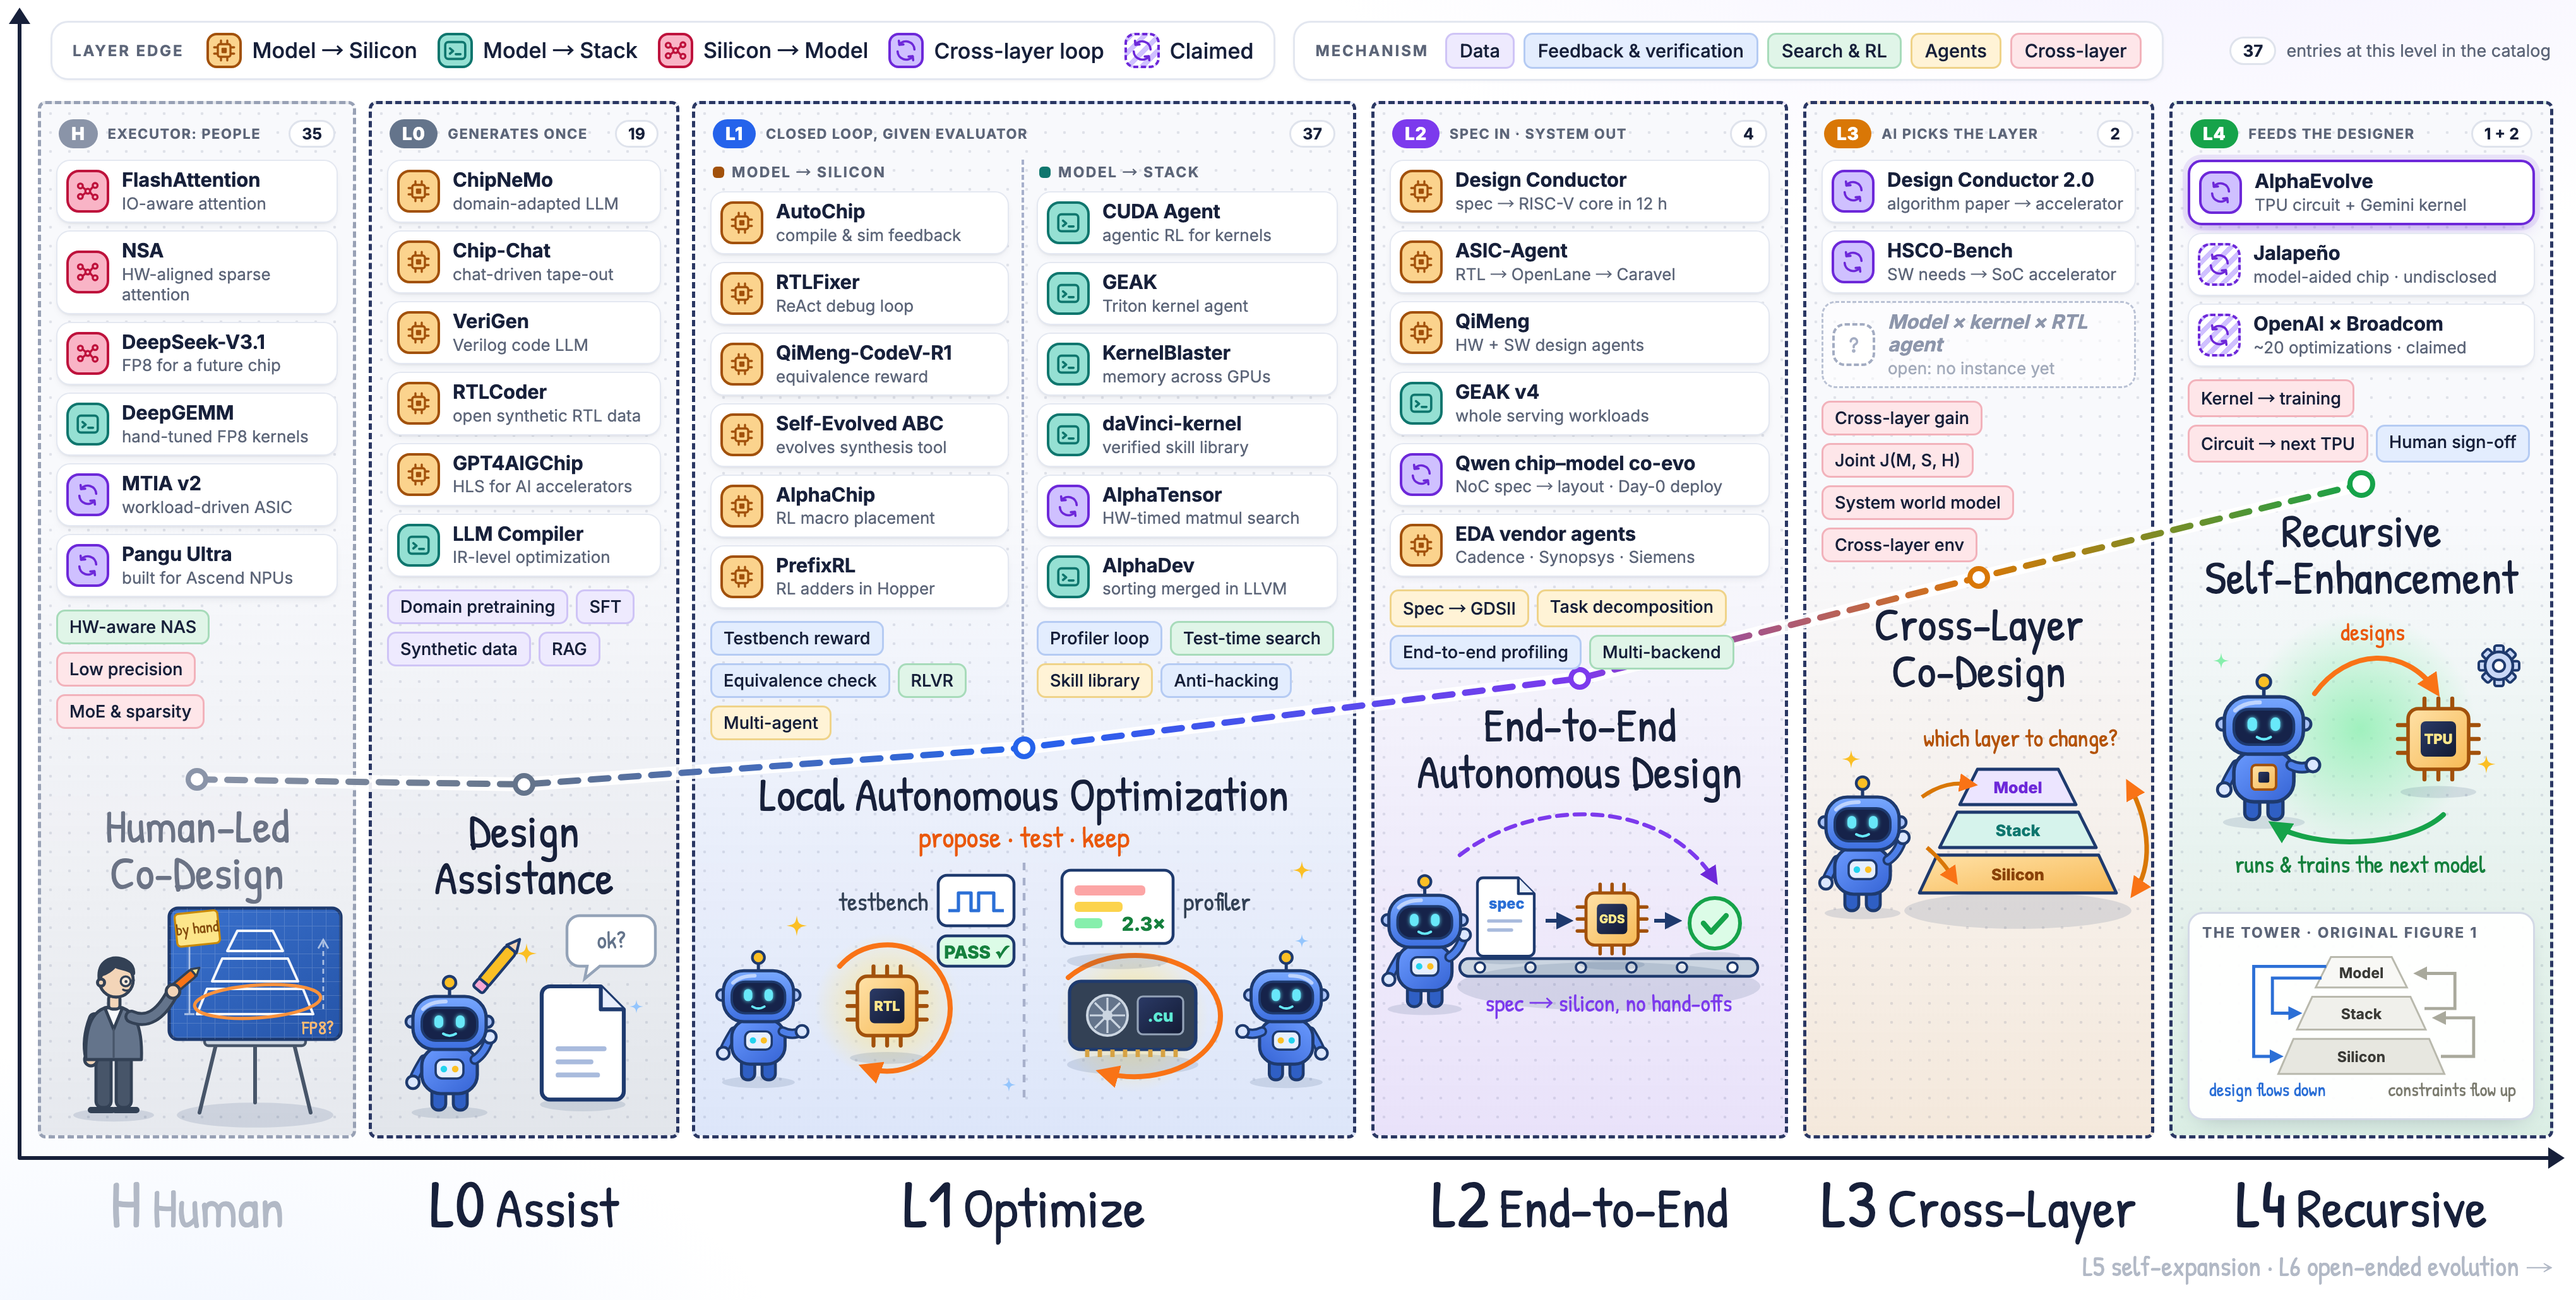
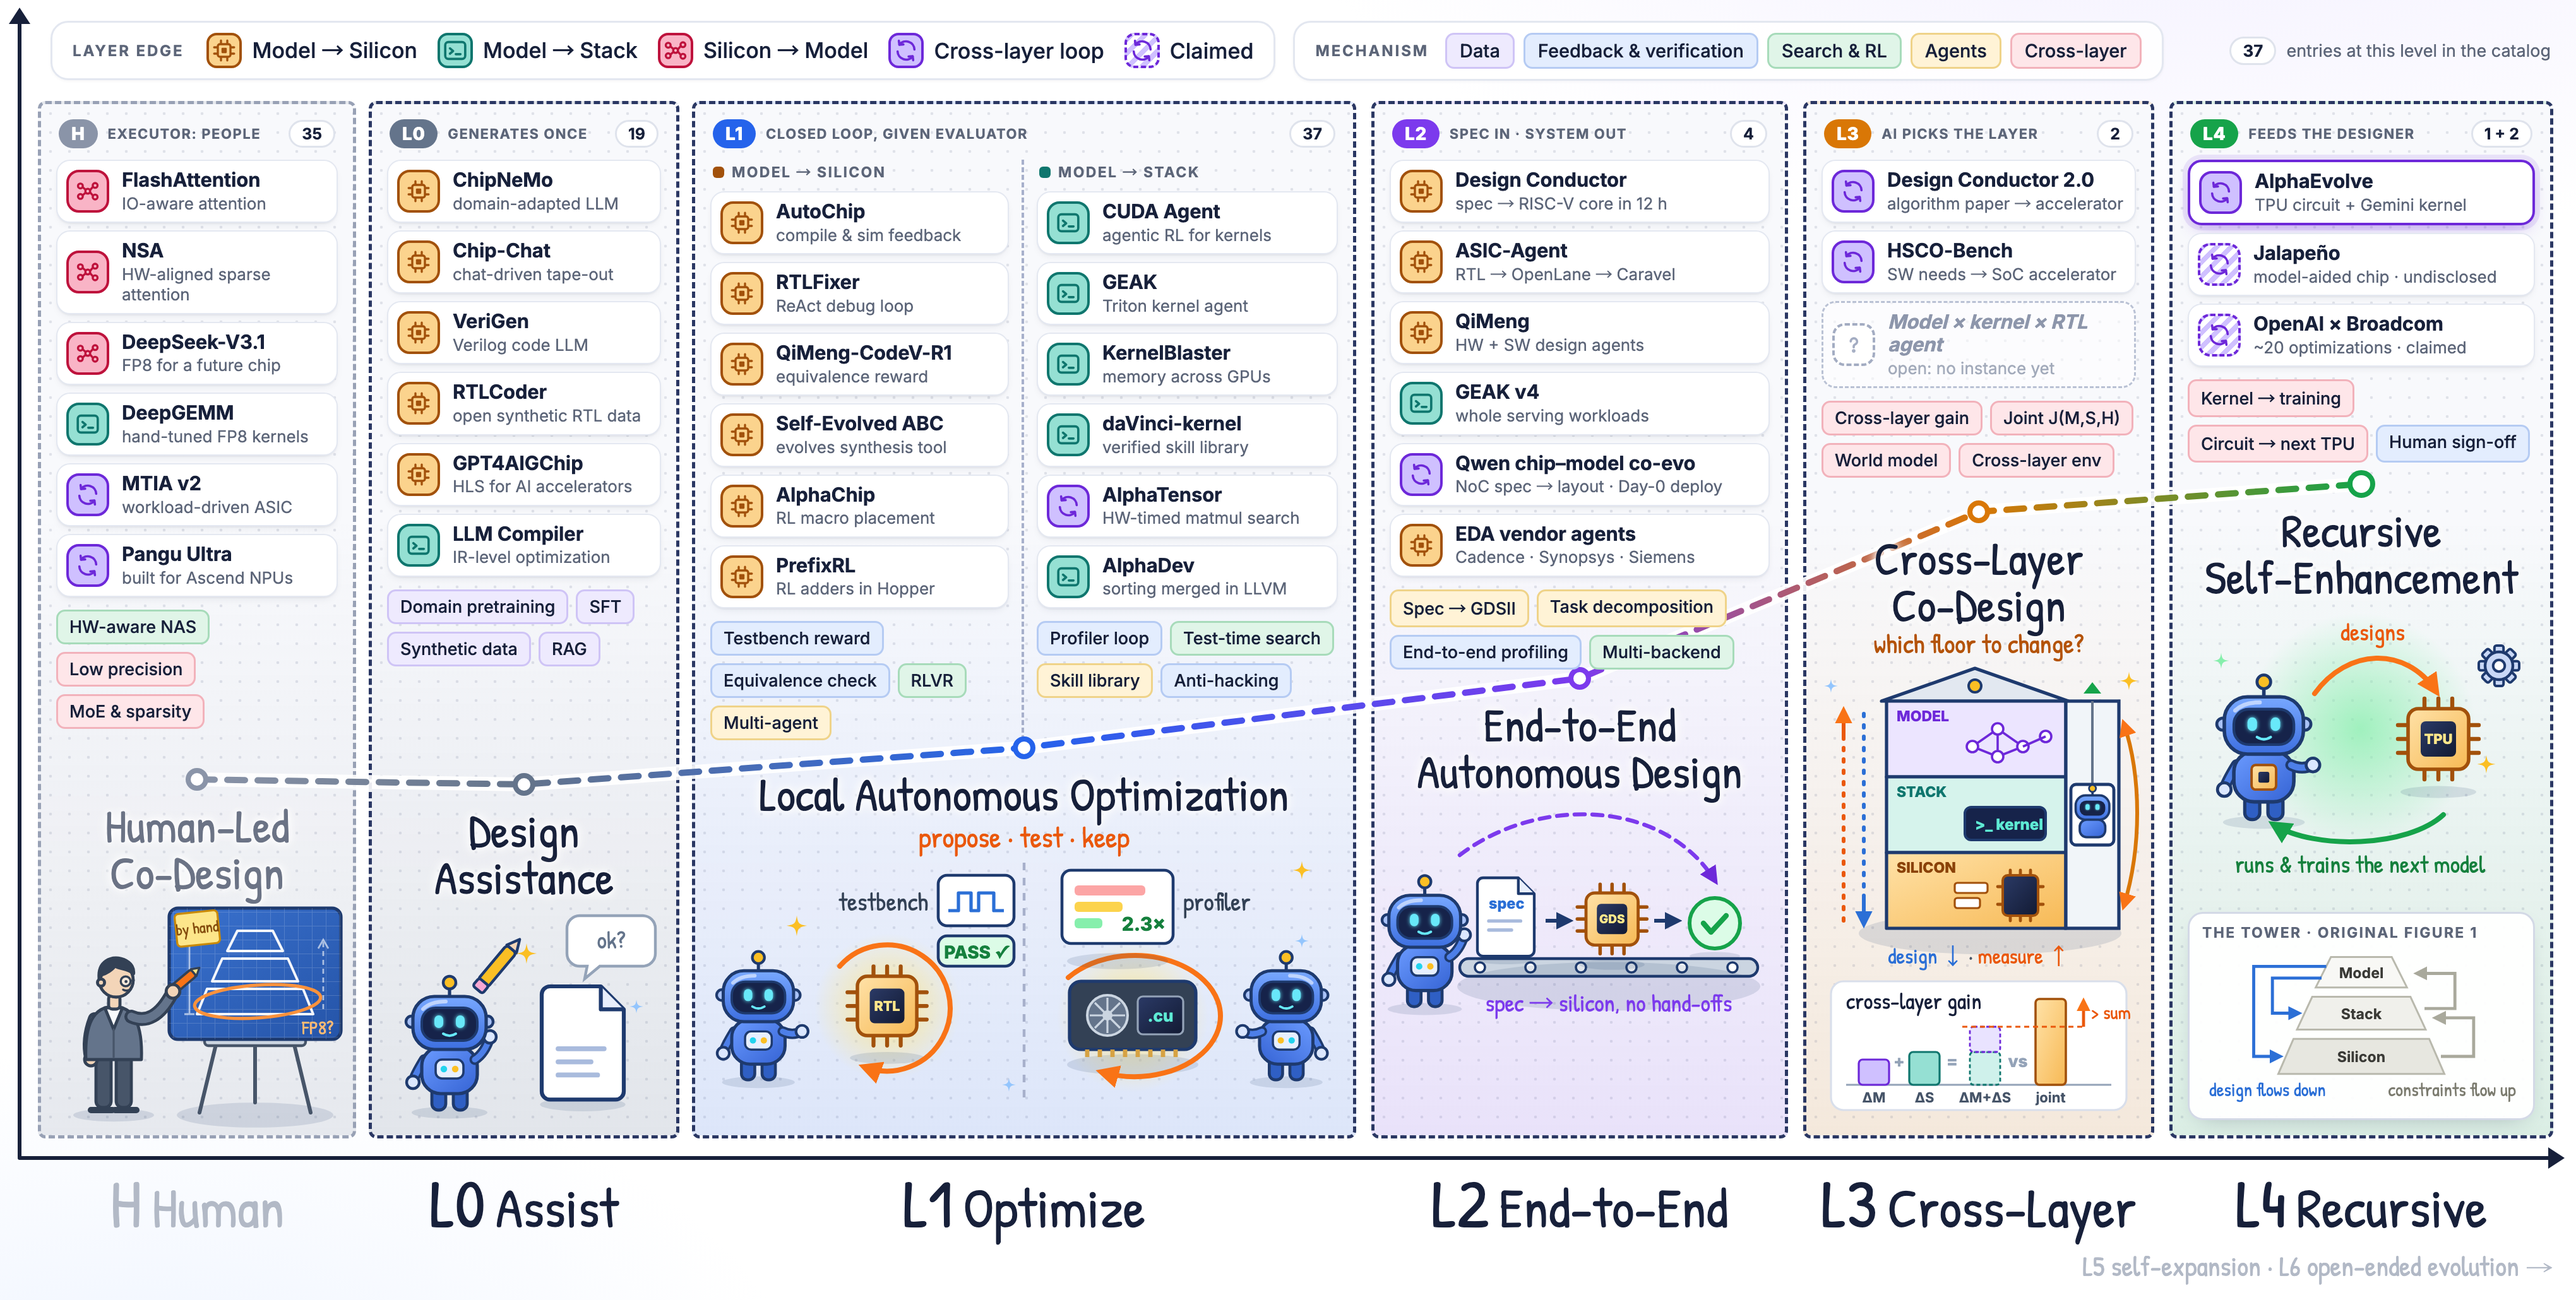
Reimagine the L3 scene in Figure 1 as a three-floor building
The robot rides an elevator between the Model, Stack and Silicon floors
with design and measurement pipes on the wall; a cross-layer-gain card
shows a joint change beating the sum of single-layer changes.

Changed region(s): [[0.6537, 0.3107, 0.9027, 0.8699]]

diff --git a/scripts/figures/overview.html b/scripts/figures/overview.html
@@ -95,7 +95,7 @@
   .k-loop { background: var(--c-loop); border-color: var(--c-loop-b); }
 
   .scene { position: absolute; left: 0; right: 0; text-align: center; z-index: 2; }
-  .scene .ttl { font-size: 37px; line-height: 1.0; color: var(--ink); }
+  .scene .ttl { font-size: 37px; line-height: 1.0; color: var(--ink); text-shadow: 0 0 4px #fff, 0 0 8px #fff, 0 0 12px rgba(255,255,255,.9); }
   .human .scene .ttl { color: #6b7385; }
   .scene svg { display: block; margin: 2px auto 0; overflow: visible; }
 
@@ -200,13 +200,13 @@ const COLS = [
     ],
     chips: [['k-agent', 'Spec → GDSII'], ['k-agent', 'Task decomposition'], ['k-fb', 'End-to-end profiling'], ['k-search', 'Multi-backend']] },
   { id: 'L3', x: 1428, w: 278, color: '#d97706', floor: 'rgba(217,119,6,.13)', pill: 'L3', sub: 'AI picks the layer', count: '2',
-    title: 'Cross-Layer<br>Co-Design', rise: 150, scene: 'cross',
+    title: 'Cross-Layer<br>Co-Design', rise: 6, scene: 'cross',
     items: [
       ['lp', 'Design Conductor 2.0', 'algorithm paper → accelerator'],
       ['lp', 'HSCO-Bench', 'SW needs → SoC accelerator'],
       ['open', 'Model × kernel × RTL agent', 'open: no instance yet'],
     ],
-    chips: [['k-loop', 'Cross-layer gain'], ['k-loop', 'Joint J(M, S, H)'], ['k-loop', 'System world model'], ['k-loop', 'Cross-layer env']] },
+    chips: [['k-loop', 'Cross-layer gain'], ['k-loop', 'Joint J(M,S,H)'], ['k-loop', 'World model'], ['k-loop', 'Cross-layer env']] },
   { id: 'L4', x: 1718, w: 304, color: '#16a34a', floor: 'rgba(22,163,74,.13)', pill: 'L4', sub: 'Feeds the designer', count: '1 + 2',
     title: 'Recursive<br>Self-Enhancement', rise: 196, scene: 'recursive', inset: true,
     items: [
@@ -424,15 +424,78 @@ const SCENES = {
     <path d="M60 46 C 120 0, 220 0, 262 66" fill="none" stroke="#7c3aed" stroke-width="3.2" stroke-dasharray="8 6" stroke-linecap="round" marker-end="url(#ah-v)"/>
     <text x="178" y="170" text-anchor="middle" font-family="Patrick Hand" font-size="19" fill="#7c3aed">spec → silicon, no hand-offs</text>
   </svg>`,
-  cross: () => `<svg width="262" height="190" viewBox="0 0 262 190">
-    ${shadow(162, 170, 90)}
-    ${tower(100, 58, 1.0)}
-    <path d="M250 70 C 268 104, 268 136, 254 156" fill="none" stroke="#d97706" stroke-width="3.6" marker-start="url(#ah-o)" marker-end="url(#ah-o)"/>
-    ${robot(4, 72, 1.0, { left: 'down', right: 'up' })}
-    <path d="M86 80 C 100 70, 112 68, 126 70" fill="none" stroke="#d97706" stroke-width="3.2" marker-end="url(#ah-o)"/>
-    <path d="M90 120 C 104 132, 108 140, 112 146" fill="none" stroke="#d97706" stroke-width="3.2" marker-end="url(#ah-o)"/>
-    <text x="164" y="40" text-anchor="middle" font-family="Patrick Hand" font-size="19" fill="#b45309">which layer to change?</text>
-    ${sparkle(30, 50, 0.8)}
+  cross: () => `<svg width="262" height="386" viewBox="0 0 262 386">
+    <text x="131" y="18" text-anchor="middle" font-family="Patrick Hand" font-size="21" fill="#b45309">which floor to change?</text>
+    ${shadow(140, 240, 104)}
+    <!-- roof -->
+    <path d="M54 56 L128 30 L202 56 Z" fill="#e2e8f0" stroke="${NAVY}" stroke-width="2.6" stroke-linejoin="round"/>
+    <circle cx="128" cy="44" r="5" fill="#fbbf24" stroke="${NAVY}" stroke-width="2"/>
+    <!-- floors -->
+    <g stroke="${NAVY}" stroke-width="2.6" stroke-linejoin="round">
+      <rect x="58" y="56" width="142" height="60" fill="#ece5ff"/>
+      <rect x="58" y="116" width="142" height="60" fill="#d6f3ec"/>
+      <rect x="58" y="176" width="142" height="60" fill="url(#gChip)"/>
+    </g>
+    <g font-family="Inter" font-weight="800" font-size="11.5">
+      <text x="66" y="72" fill="#6d28d9">MODEL</text><text x="66" y="132" fill="#0f766e">STACK</text><text x="66" y="192" fill="#8a4208">SILICON</text>
+    </g>
+    <!-- model floor: a small network -->
+    <g stroke="#6d28d9" stroke-width="1.8" fill="#fff">
+      <path d="M126 92 L146 78 L166 92 M126 92 L146 100 L166 92 M146 78 L146 100" fill="none"/>
+      <circle cx="126" cy="92" r="4.5"/><circle cx="146" cy="78" r="4.5"/><circle cx="146" cy="100" r="4.5"/><circle cx="166" cy="92" r="4.5"/>
+      <circle cx="184" cy="84" r="4.5"/><path d="M166 92 L184 84" fill="none"/>
+    </g>
+    <!-- stack floor: kernel window -->
+    <g transform="translate(120,140)">
+      <rect width="64" height="26" rx="5" fill="#16234a" stroke="${NAVY}" stroke-width="2"/>
+      <text x="8" y="18" font-family="Inter" font-weight="800" font-size="12" fill="#5eead4">&gt;_ kernel</text>
+    </g>
+    <!-- silicon floor: die -->
+    <g transform="translate(150,194)">
+      <g stroke="#a2510b" stroke-width="2.4" stroke-linecap="round"><path d="M6 0v-4M14 0v-4M22 0v-4M6 32v4M14 32v4M22 32v4M0 9h-4M0 23h-4M28 9h4M28 23h4"/></g>
+      <rect width="28" height="32" rx="4" fill="url(#gDie)" stroke="#a2510b" stroke-width="2"/>
+    </g>
+    <g transform="translate(112,200)" fill="#fff" stroke="#a2510b" stroke-width="1.6"><rect width="26" height="8" rx="2"/><rect y="12" width="20" height="8" rx="2"/></g>
+    <!-- signal pipes on the outside wall -->
+    <path d="M40 66 V 224" stroke="#2b6fd6" stroke-width="3" stroke-dasharray="2 7" stroke-linecap="round"/>
+    <path d="M40 210 V 232" stroke="#2b6fd6" stroke-width="3" marker-end="url(#ah-b)"/>
+    <path d="M24 230 V 70" stroke="#ea580c" stroke-width="3" stroke-dasharray="2 7" stroke-linecap="round"/>
+    <path d="M24 84 V 64" stroke="#ea580c" stroke-width="3" marker-end="url(#ah-o)"/>
+    <text x="131" y="264" text-anchor="middle" font-family="Patrick Hand" font-size="17" fill="#475569"><tspan fill="#2b6fd6">design ↓</tspan> · <tspan fill="#ea580c">measure ↑</tspan></text>
+    <!-- elevator -->
+    <rect x="200" y="56" width="42" height="180" fill="#f1f5f9" stroke="${NAVY}" stroke-width="2.6"/>
+    <path d="M221 56 V 122" stroke="#64748b" stroke-width="2"/>
+    <path d="M214 50 l7 -9 7 9z" fill="#16a34a"/>
+    <rect x="204" y="122" width="34" height="48" rx="4" fill="#fff" stroke="${NAVY}" stroke-width="2.4"/>
+    <g transform="translate(205,127) scale(.46)">
+      <rect x="6" y="8" width="58" height="42" rx="17" fill="url(#gHead)" stroke="${NAVY}" stroke-width="4"/>
+      <rect x="13" y="17" width="44" height="26" rx="11" fill="#16234a"/>
+      <g filter="url(#fEye)"><rect x="23" y="23" width="7" height="10" rx="3.5" fill="#67e8f9"/><rect x="40" y="23" width="7" height="10" rx="3.5" fill="#67e8f9"/></g>
+      <rect x="13" y="50" width="44" height="30" rx="12" fill="url(#gBody)" stroke="${NAVY}" stroke-width="4"/>
+      <line x1="35" y1="8" x2="35" y2="-2" stroke="${NAVY}" stroke-width="4"/><circle cx="35" cy="-4" r="6" fill="#fbbf24" stroke="${NAVY}" stroke-width="3"/>
+    </g>
+    <path d="M246 74 C 260 116, 260 172, 246 218" fill="none" stroke="#d97706" stroke-width="3" marker-start="url(#ah-o)" marker-end="url(#ah-o)"/>
+    ${sparkle(250, 40, 0.8)} ${sparkle(14, 44, 0.6, '#93c5fd')}
+    <!-- cross-layer gain card -->
+    <g transform="translate(14,278)">
+      <rect width="234" height="102" rx="10" fill="#fff" stroke="#d9dfeb" stroke-width="1.6"/>
+      <text x="12" y="22" font-family="Patrick Hand" font-size="18" fill="#17203a">cross-layer gain</text>
+      <path d="M12 82 H 222" stroke="#94a3b8" stroke-width="1.6"/>
+      <rect x="22" y="62" width="24" height="20" rx="3" fill="#cfc0ff" stroke="#6d28d9" stroke-width="1.6"/>
+      <rect x="62" y="56" width="24" height="26" rx="3" fill="#95e0d3" stroke="#0f766e" stroke-width="1.6"/>
+      <rect x="110" y="56" width="24" height="26" rx="3" fill="#95e0d3" fill-opacity=".45" stroke="#0f766e" stroke-width="1.4" stroke-dasharray="3 2"/>
+      <rect x="110" y="36" width="24" height="20" rx="3" fill="#cfc0ff" fill-opacity=".45" stroke="#6d28d9" stroke-width="1.4" stroke-dasharray="3 2"/>
+      <rect x="162" y="14" width="24" height="68" rx="3" fill="url(#gChip)" stroke="#a2510b" stroke-width="1.8"/>
+      <path d="M104 36 H 200" stroke="#ea580c" stroke-width="1.6" stroke-dasharray="4 3"/>
+      <path d="M200 36 V 16" stroke="#ea580c" stroke-width="2.4" marker-end="url(#ah-o)"/>
+      <text x="206" y="30" font-family="Patrick Hand" font-size="15" fill="#ea580c">&gt; sum</text>
+      <g font-family="Inter" font-weight="700" font-size="11" fill="#475569" text-anchor="middle">
+        <text x="34" y="96">ΔM</text><text x="74" y="96">ΔS</text><text x="122" y="96">ΔM+ΔS</text><text x="174" y="96">joint</text>
+      </g>
+      <text x="96" y="68" font-family="Inter" font-weight="800" font-size="13" fill="#94a3b8" text-anchor="middle">=</text>
+      <text x="54" y="68" font-family="Inter" font-weight="800" font-size="13" fill="#94a3b8" text-anchor="middle">+</text>
+      <text x="148" y="68" font-family="Inter" font-weight="800" font-size="13" fill="#94a3b8" text-anchor="middle">vs</text>
+    </g>
   </svg>`,
   recursive: () => `<svg width="282" height="218" viewBox="0 0 282 218">
     <circle cx="140" cy="100" r="92" fill="url(#gGlowG)"/>
